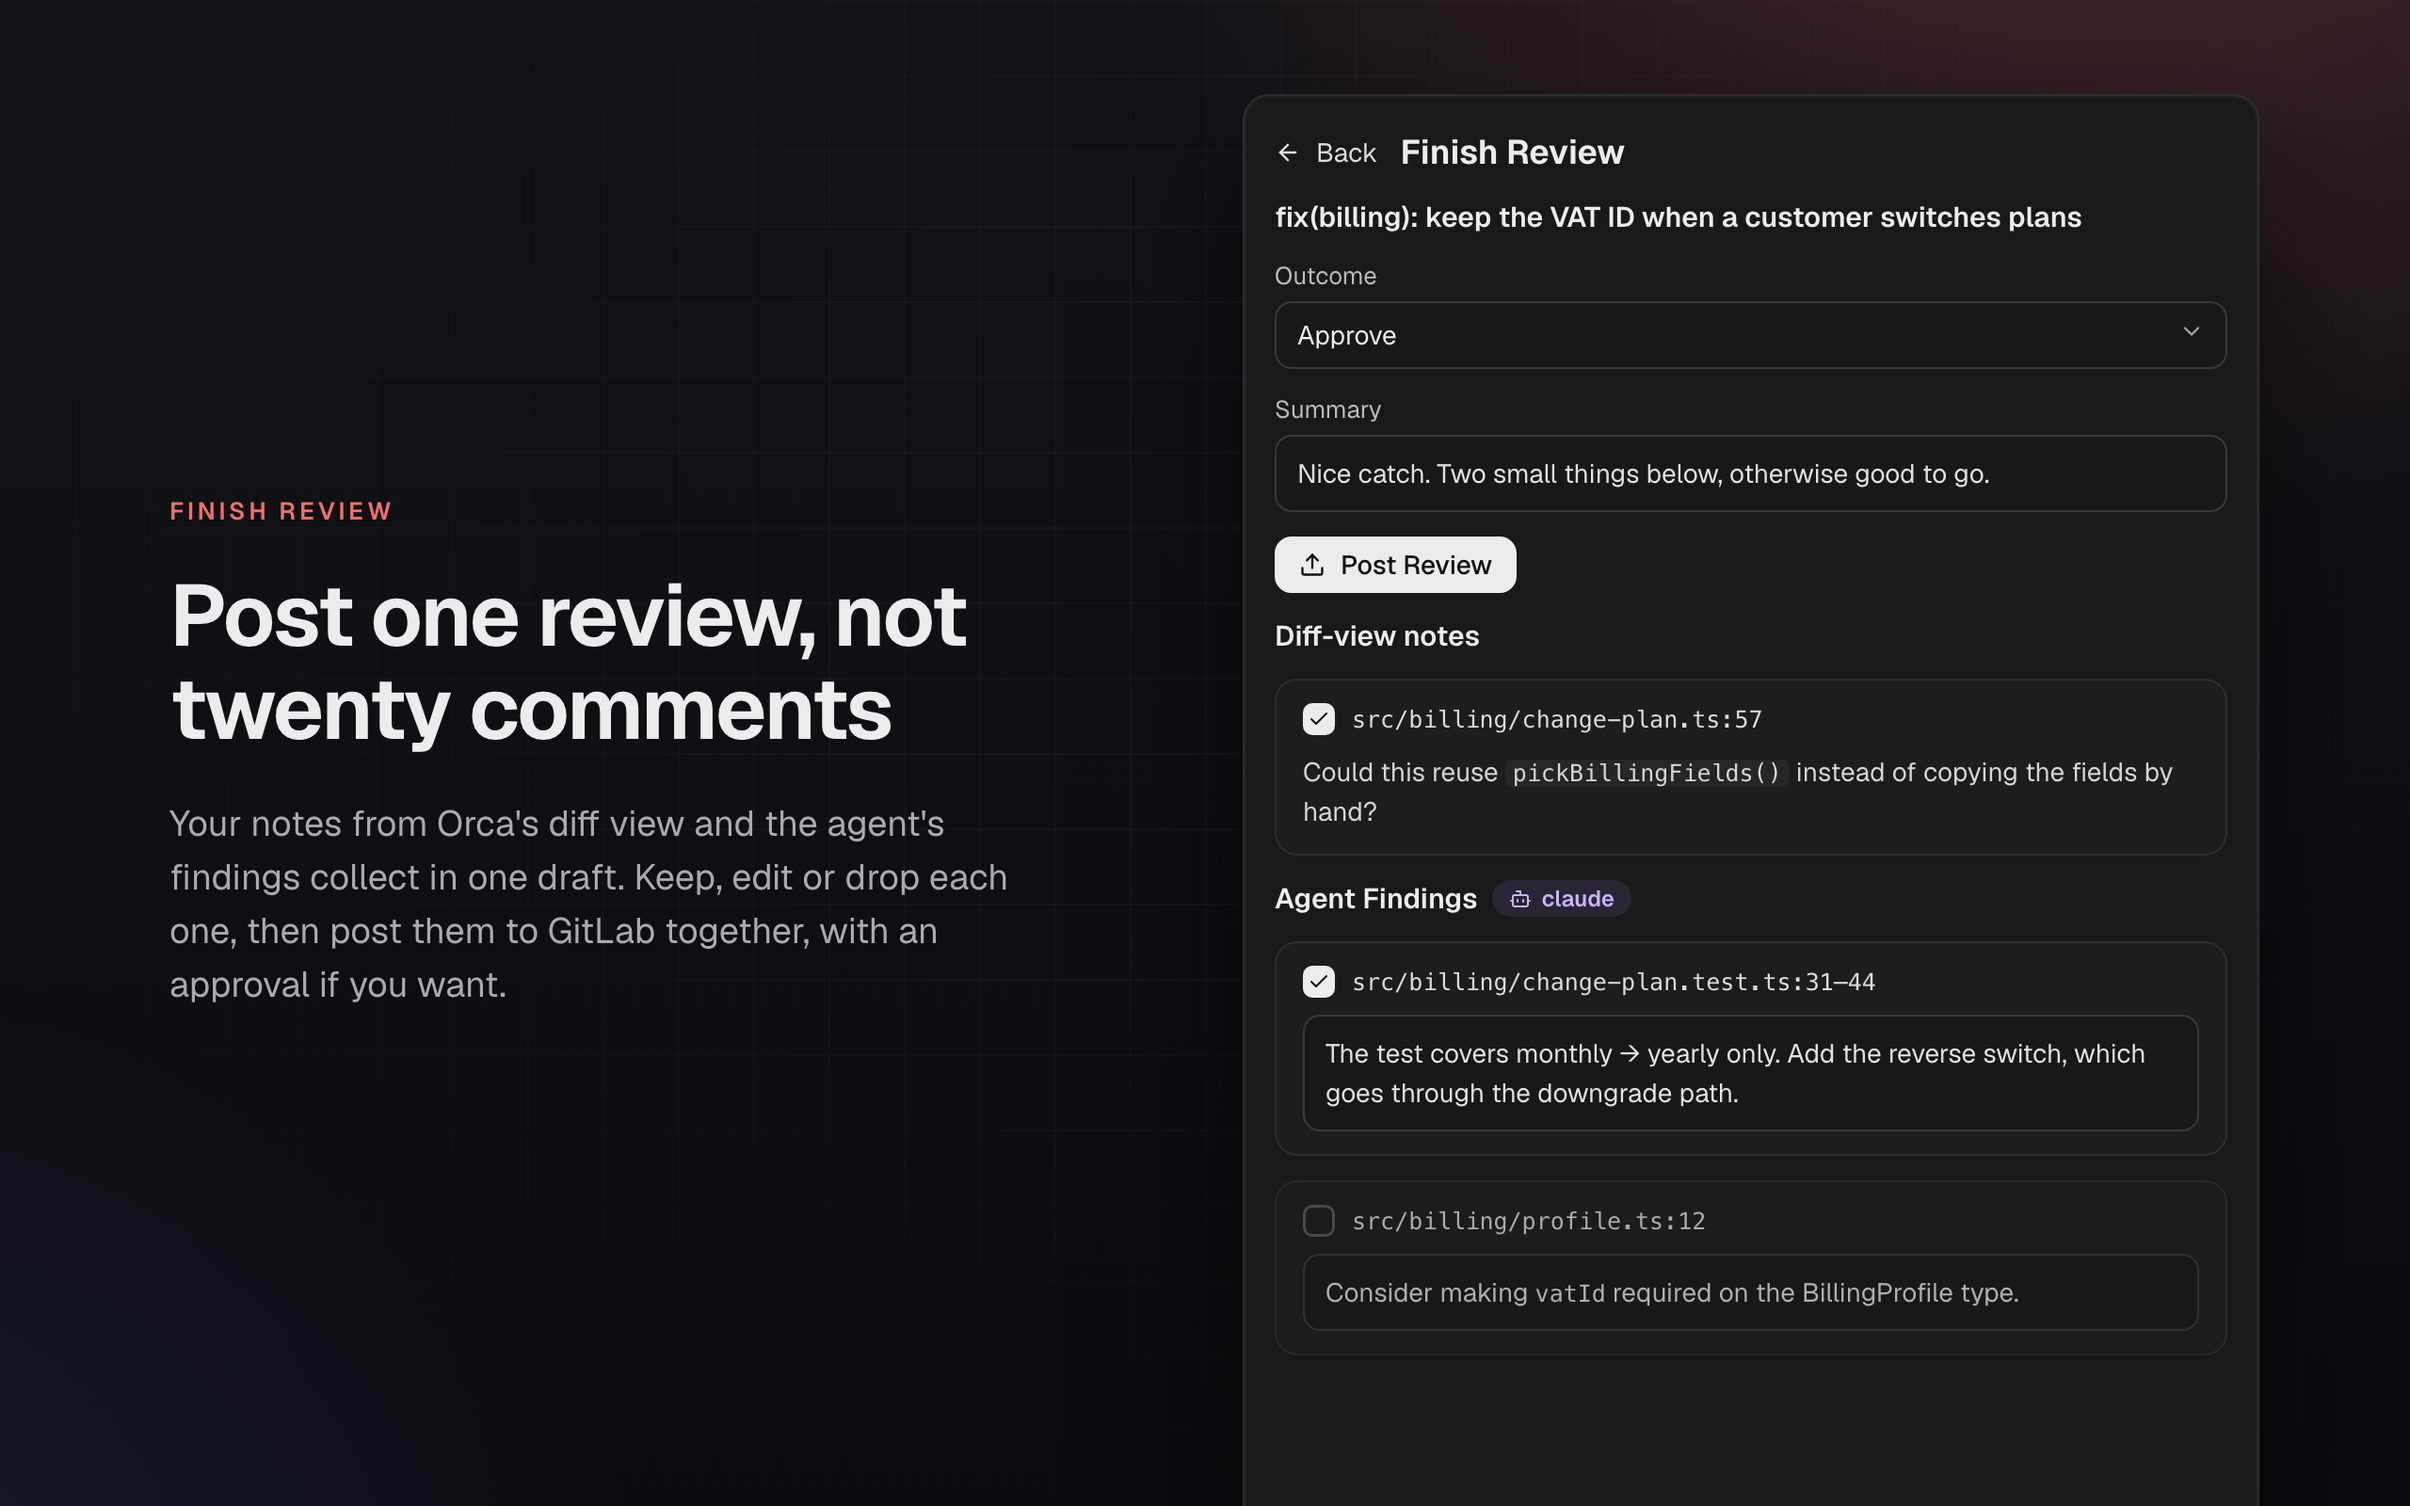
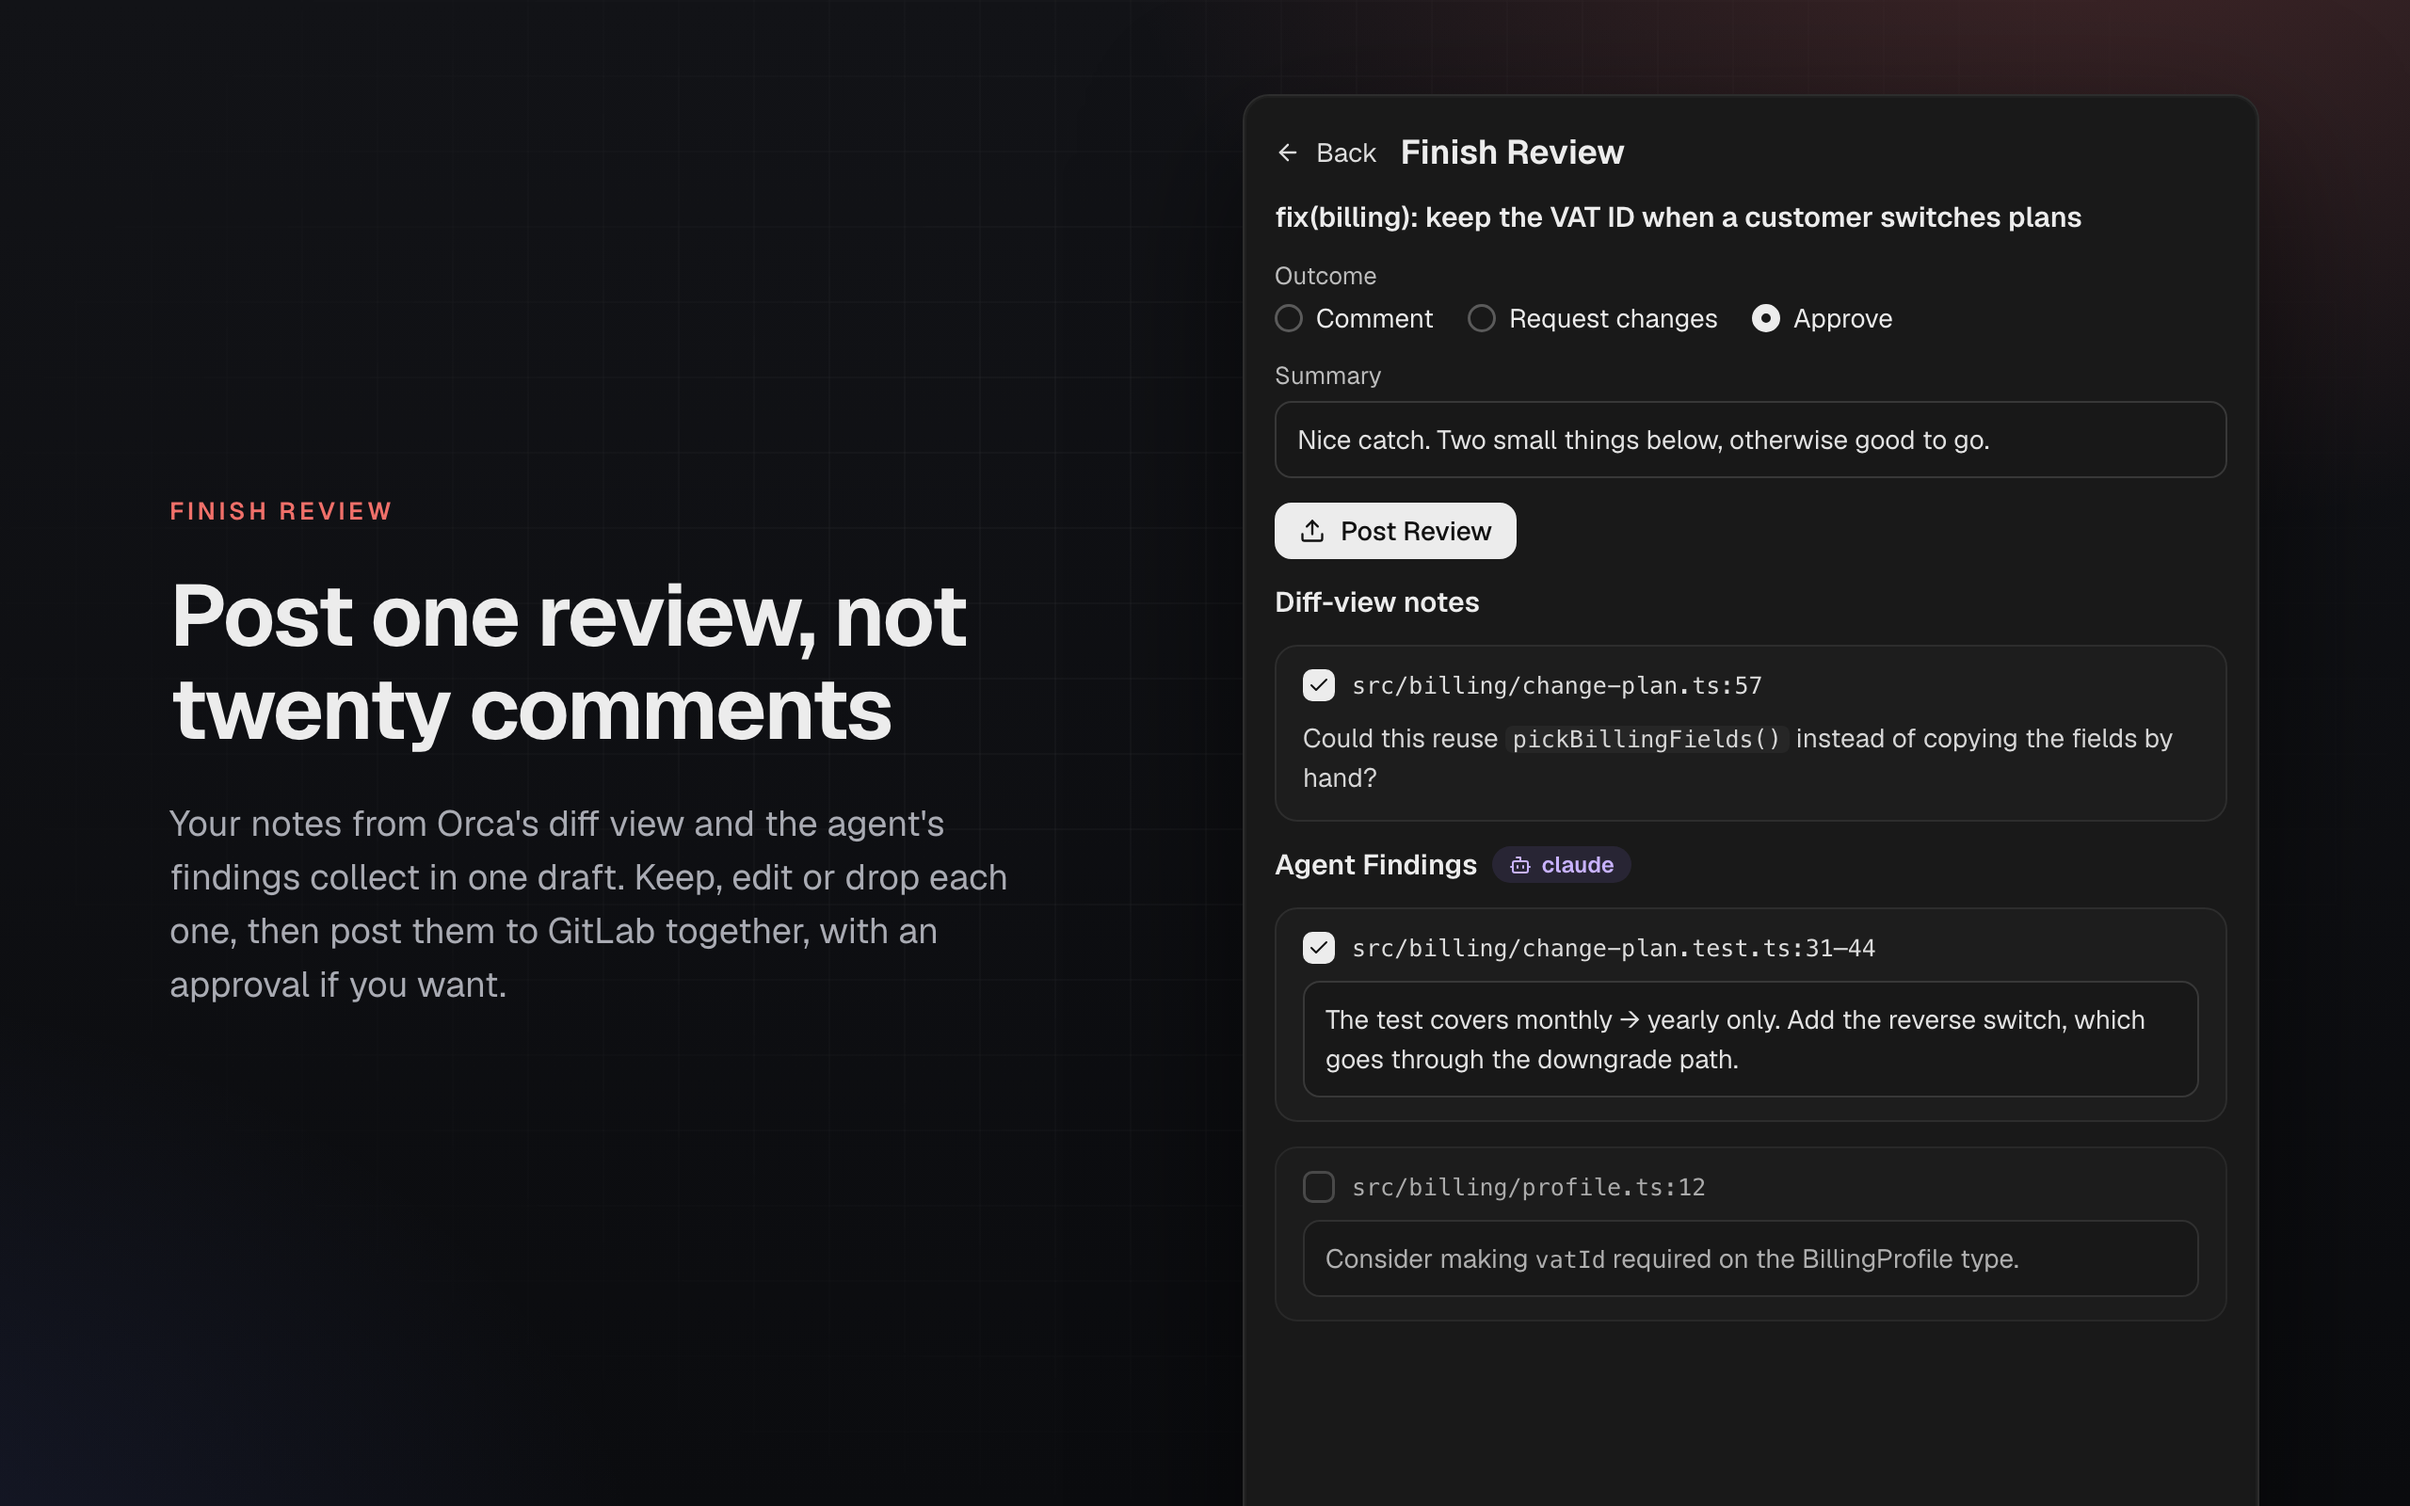
Code Review Requests 0.6.7: the outcome is a row of radio buttons

Changed region(s): [[0.5312, 0.1875, 0.9062, 0.75], [0.5312, 0.7812, 0.8438, 0.875]]

diff --git a/plugins/code-review-requests/scripts/images/mock.html b/plugins/code-review-requests/scripts/images/mock.html
@@ -107,6 +107,10 @@ svg.i { width: 1em; height: 1em; fill: none; stroke: currentColor; stroke-width:
 .body { font-size: 14px; line-height: 1.5; color: #d6d6d6; }
 .ta { border: 1px solid var(--line2); border-radius: 9px; padding: 9px 11px; font-size: 14px; line-height: 1.5; color: #e2e2e2; background: #181818; }
 .field-l { font-size: 13px; color: #bcbcbc; margin-bottom: 5px; }
+.radios { display: flex; gap: 18px; font-size: 14px; }
+.radios span { display: flex; align-items: center; gap: 7px; }
+.radios i { width: 15px; height: 15px; border-radius: 50%; border: 1.5px solid #5a5a5a; display: inline-block; box-sizing: border-box; }
+.radios i.on { border: 5px solid #ececec; }
 .sel-box { border: 1px solid var(--line2); border-radius: 9px; padding: 8px 11px; font-size: 14px; display: flex; justify-content: space-between; background: #181818; }
 .muted { color: var(--muted); }
 .agent-tag { display: inline-flex; align-items: center; gap: 5px; font-size: 12px; color: #c9b3ff; background: rgba(160,130,255,.12); border-radius: 999px; padding: 2px 9px; font-family: Geist, sans-serif; }
@@ -240,7 +244,7 @@ svg.i { width: 1em; height: 1em; fill: none; stroke: currentColor; stroke-width:
     <div class="panel rd" style="height:820px"><div class="panel-in" style="gap:13px">
       <div style="display:flex;align-items:center;gap:12px"><span class="btn" style="border:none;background:none;padding:0;color:#ddd">LEFT Back</span><h2>Finish Review</h2></div>
       <div style="font-weight:600;font-size:15px">fix(billing): keep the VAT ID when a customer switches plans</div>
-      <div><div class="field-l">Outcome</div><div class="sel-box"><span>Approve</span><span class="muted">DOWN</span></div></div>
+      <div><div class="field-l">Outcome</div><div class="radios"><span><i></i>Comment</span><span><i></i>Request changes</span><span><i class="on"></i>Approve</span></div></div>
       <div><div class="field-l">Summary</div><div class="ta">Nice catch. Two small things below, otherwise good to go.</div></div>
       <div style="display:flex;gap:10px"><span class="btn primary">UPLOAD Post Review</span></div>
       <h3>Diff-view notes</h3>

diff --git a/plugins/code-review-requests/src/review-post-panel.test.tsx b/plugins/code-review-requests/src/review-post-panel.test.tsx
@@ -107,7 +107,7 @@ function posted(sent: unknown[]) {
 test('the page has the outcome, the summary and Post Review', async () => {
   const { view } = await openDraft({})
 
-  assert.equal(view.valueOf(view.find({ type: 'Select', label: 'Outcome' })!), 'comment')
+  assert.equal(view.valueOf(view.find({ type: 'RadioGroup', label: 'Outcome' })!), 'comment')
   assert.ok(view.find({ type: 'Textarea', label: 'Summary' }))
   assert.equal(view.find(postReview)!.disabled, false)
   assert.deepEqual(view.errors, [])
@@ -118,7 +118,7 @@ test('Post Review sends the summary and outcome, then shows the review posted', 
   const sent: unknown[] = []
   const { view } = await openDraft({ 'rr.postReview': posted(sent) })
   await view.type(view.find({ type: 'Textarea', label: 'Summary' })!, 'Nearly there.')
-  await view.select(view.find({ type: 'Select', label: 'Outcome' })!, 'requested_changes')
+  await view.select(view.find({ type: 'RadioGroup', label: 'Outcome' })!, 'requested_changes')
 
   await view.press(view.find(postReview)!)
 
@@ -137,7 +137,7 @@ test('with nothing checked, Post Review waits for a summary or an outcome, then 
   const { view } = await openDraft({ 'rr.postReview': posted(sent) }, null, [comment('note:n1', { checked: false })])
   assert.equal(view.find(postReview)!.disabled, true)
 
-  await view.select(view.find({ type: 'Select', label: 'Outcome' })!, 'approve')
+  await view.select(view.find({ type: 'RadioGroup', label: 'Outcome' })!, 'approve')
   assert.equal(view.find(postReview)!.disabled, false)
   await view.press(view.find(postReview)!)
 

diff --git a/plugins/code-review-requests/src/review-post-view.tsx b/plugins/code-review-requests/src/review-post-view.tsx
@@ -8,9 +8,9 @@ import {
   atom,
   Callout,
   plugin,
+  RadioGroup,
   read,
   Row,
-  Select,
   set,
   Spinner,
   Stack,
@@ -147,8 +147,9 @@ export function PostSection(props: { draft: ReviewDraftView; onDraft: (draft: Re
   return (
     <Stack gap="sm">
       {current.kind === 'done' && <Outcome result={current.result} draft={draft} onDraft={onDraft} />}
-      <Select
+      <RadioGroup
         label="Outcome"
+        orientation="horizontal"
         options={OUTCOMES}
         value={read(outcome)}
         disabled={busy}
